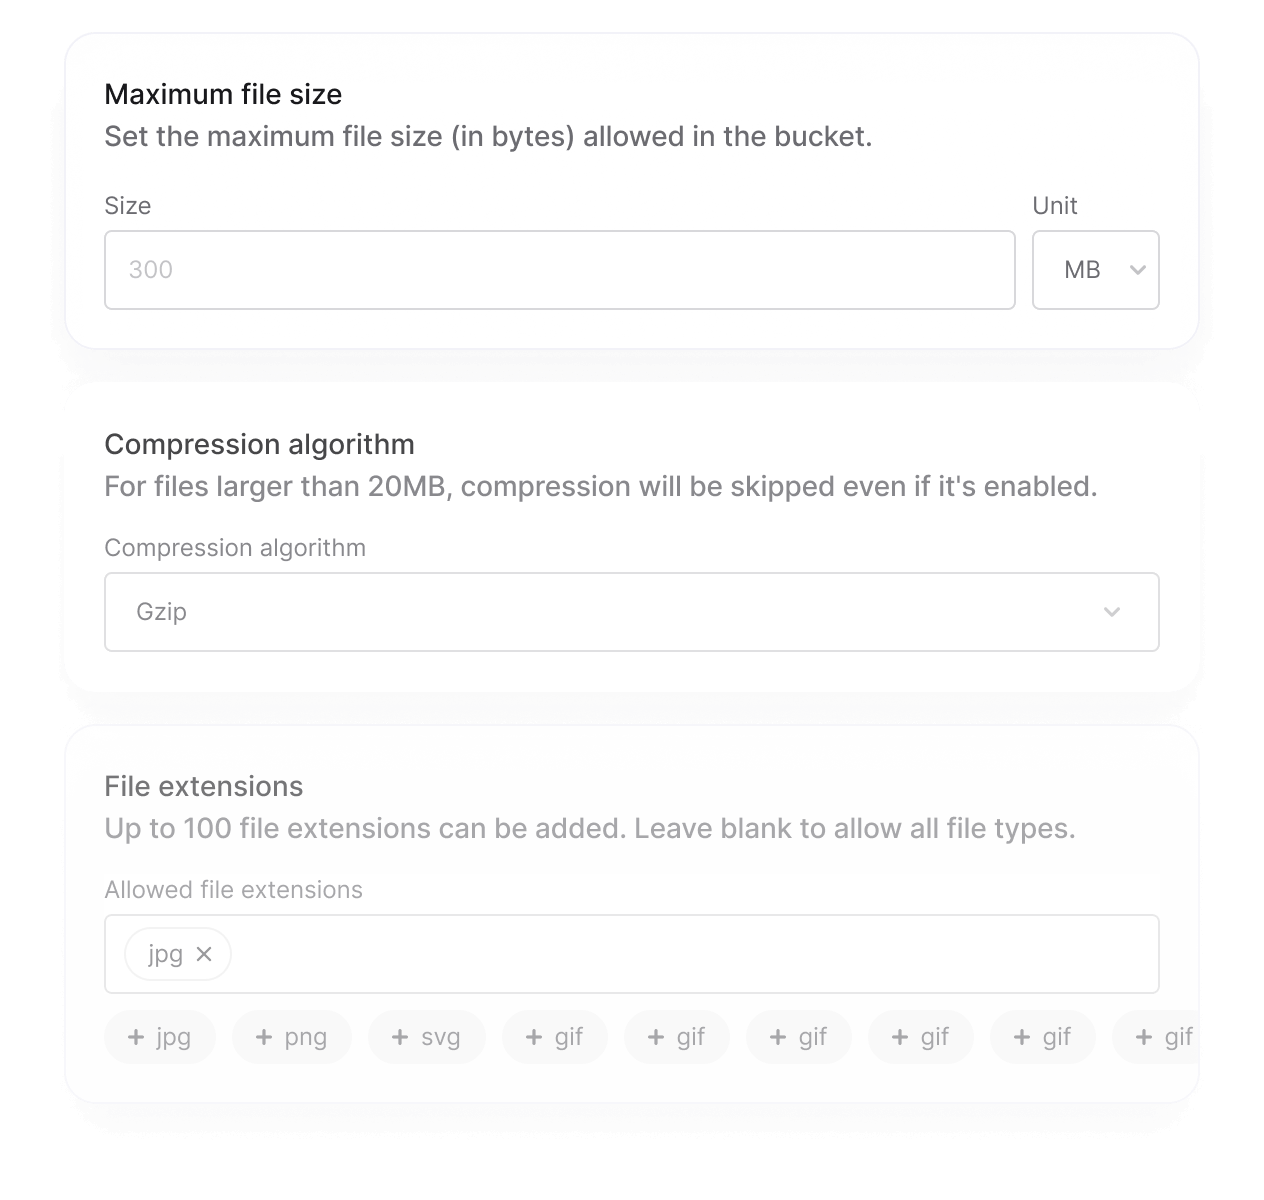
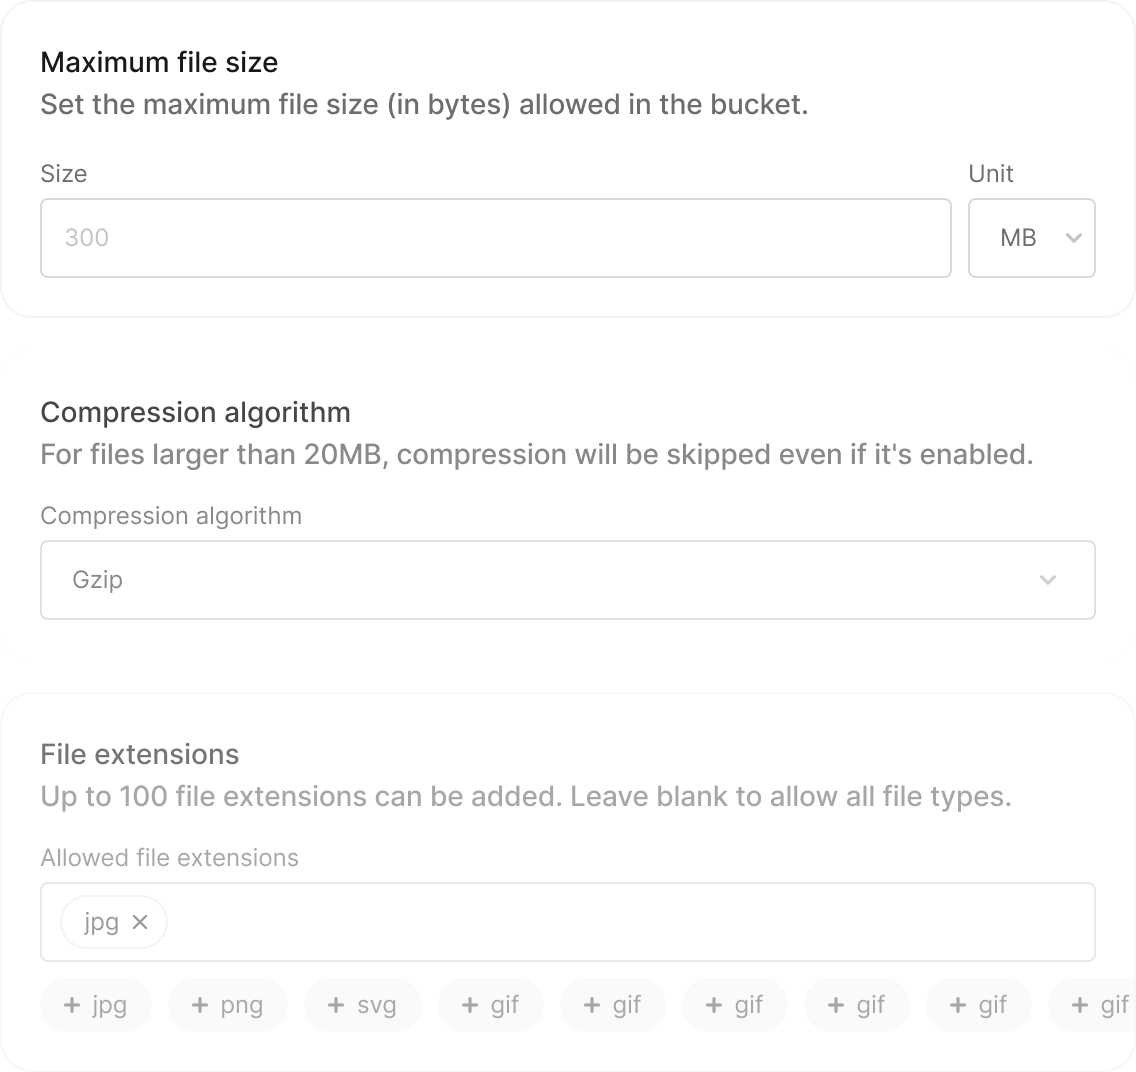
Replace settings content image + add CSS shadow

diff --git a/src/routes/storage/+page.svelte b/src/routes/storage/+page.svelte
@@ -630,7 +630,7 @@
                                 </p>
                             </div>
                             <div>
-                                <img src="/images/pages/storage/settings.png" alt="">
+                                <img class="l-drop-shadow" src="/images/pages/storage/settings.png" alt="">
                             </div>
 <!--                            <div>-->
 <!--                                <div class="web-card is-white u-padding-20">-->
@@ -1174,7 +1174,7 @@
   }
 
   .l-box-image-1 { inline-size:427px; padding:0.5rem; border:solid 1px #85DBD8; }
-
+  .l-drop-shadow { filter: drop-shadow(0 16px 32px rgb(55 59 77 / 0.04)); }
 
   .hero {
     display: grid;
